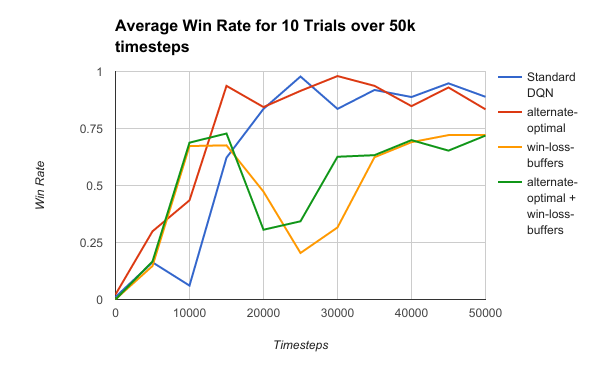
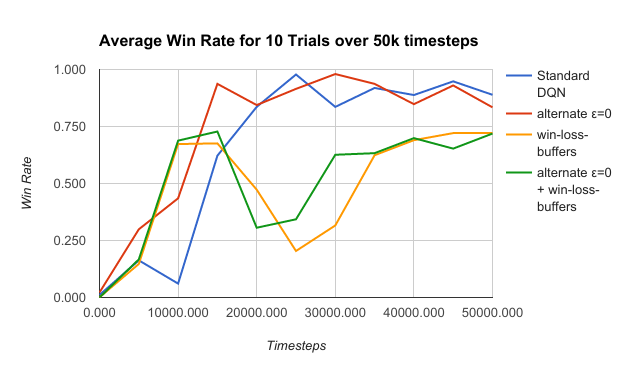
results start

diff --git a/README.md b/README.md
@@ -1,7 +1,5 @@
 # TensorFlow and StarCraft
 
-Table of Contents
-=================
 * [Background](#background)
    * [StarCraft](#starcraft)
    * [AI research with StarCraft](#ai-research-with-starcraft)
@@ -104,11 +102,11 @@ In this research, the battles have been between symmetrical forces. Giving no or
 
 When pitting a fast ranged unit vs. a slow melee one in StarCraft, the optimal control strategy for the ranged unit is to _Kite_ the melee one (fire from range, dance backwards before the melee unit can attack, and fire again). Giving no orders in this Battle to the ranged unit is a guaranteed loss.
 
-We construct a simplified battle where kiting is the optimal stragey, and where randomly generating orders from a small but sufficient set results in nominal win rates (~1%). Then we show that a relatively generic DQN is able to solve this battle with one key modifications: separate experience buffers for experience in battles which were won or lost.
+We construct a simplified battle where kiting is the optimal stragey, and where randomly generating orders from a small but sufficient set results in nominal win rates (~1%). Then we show that the standard DQN algorithm is able to solve this battle. We attempt some intuitive modifications to the DQN (separate buffers for wins & losses, not ε-Greedy exploring in every 2nd episode), and show that emperically these have neutral-to-negative impact on the performance of the algorithm. Generic DQN is hard to beat.
 
 Human Expert winning the micro battle: https://www.youtube.com/watch?v=PnEhLxpL29U
 
-The DQN learning an optimal strategy over time: https://www.youtube.com/watch?v=UHgK2RxLCKM
+The network learning an optimal strategy over time: https://www.youtube.com/watch?v=UHgK2RxLCKM
 
 
 #### Introduction
@@ -138,10 +136,7 @@ In this project we consider the Kiting problem as a exercise to:
 - Demonstrating the usefulness of the TensorFlow integration into BWAPI.
 - See if a relatively generic Deep Q-learning network can solve the kiting problem (a network largely like that described in (Mnih et al, 2015)).
 
-By modifying the experience replay buffer of a standard DQN to contain different sets for Wins vs Losses - we are able to achieve strong win rates (average 92% after 50k timesteps).
-
-There is much research into experience and reward management for Reinforcement Learning, for an overview see Section 5 of (Pritzel et al., 2017). Our tweaks to the DQN replay buffer are rudimentary - future work would be to apply more advanced experience and reward management techniques to the StarCraft micro battles domain.
-
+We are able to achive strong win rates on this problem (89% on average after 50k timesteps, 100% in best trials) with a standard DQN algorithm.
 
 #### Environment and Parameterization
 
@@ -192,8 +187,11 @@ Network Topology:
 - fully connected hidden layer of size 300, activation function ReLU
 - 6 output nodes, activation function TanH
 
+We consider two tweaks to the standard DQN algorithm:
+- Separate buffers for storing experience from won and loss episodes: intuitively to make sure the agent trains at some experience from the 1% of randomly won battles, and doesn't just train losses.
+- Set ε=0 in every 2nd episode: In some trials it was observed that performance would degrade from high win rates early on (e.g. 98% at 10k time steps), to completely losing when performance was measured again 5k steps later. By performing every second episode using the current "best known strategy" we hoped the algorithm would more quickly unlearn these regressions.
 
-Algorithm:
+Algorithm including both tweaks:
 
 ```
 Initialize win experience buffer W to capacity N_w
@@ -231,27 +229,44 @@ For battle 1, ... do
 End For
 ```
 
+We use the Adam gradient-descent algorithm for training the network ([Kingma et. al., 2014](https://arxiv.org/abs/1412.6980)) (also see TensorFlow [tf.train.AdamOptimizer](https://www.tensorflow.org/api_docs/python/tf/train/AdamOptimizer).
+
 Hyperparameters
 
 | Variable   | Hyperparameter | value |
 |---- | ------------------- | --- |
 | T   | training batch size | 100 |
-| N<sub>W</sub> | win experience buffer size | 50000 |
-| N<sub>L</sub> | lose experience buffer size | 50000 |
+| N<sub>W</sub> | win experience buffer size | 100000 |
+| N<sub>L</sub> | lose experience buffer size | 100000 |
 | K | replay start size | 100000 |
 | ε | exploration rate | 0.1 |
 | γ | future reward discount | 0.99 |
 | λ | learning rate | 0.0001 |
 | τ | target network update rate | 0.001 |
 
-We use the Adam gradient-descent algorithm for training the network ([Kingma et. al., 2014](https://arxiv.org/abs/1412.6980)) (also see TensorFlow [tf.train.AdamOptimizer](https://www.tensorflow.org/api_docs/python/tf/train/AdamOptimizer).
-
+When using a single buffer for both win and loss experience, the buffer size was N<sub>W</sub> + N<sub>L</sub>.
 
 #### Results
 
-The network is generally able to learn an optimal strategy in 50k timesteps. Win rates by testing the best guess of the network from 100 battles * 10 trials after a given number of training steps.
+Win rates are evauluated after a given number of timesteps by testing the algorithm with ε=0 in 100 battles.
 
 ![Graph of results from 4 experiments](results/chart.png)
+
+At 50k timesteps, the standard deviations in win-rate of the algorithms are:
+
+| Algorithm | Win rate standard dev over 10 trials |
+| --- | --- |
+| Standard DQN | 0.131 |
+| alternate ε=0 | 0.318 |
+| win-loss-buffers | 0.379 |
+| alternate ε=0 + win-loss-buffers | 0.392 |
+
+The standard DQN is able to learn optimal strategy reliably.
+The alternate ε=0 var
+
+
+The network is generally able to learn a decent strategy in 50k timesteps with all variants of the algorithm
+
 
 
 
